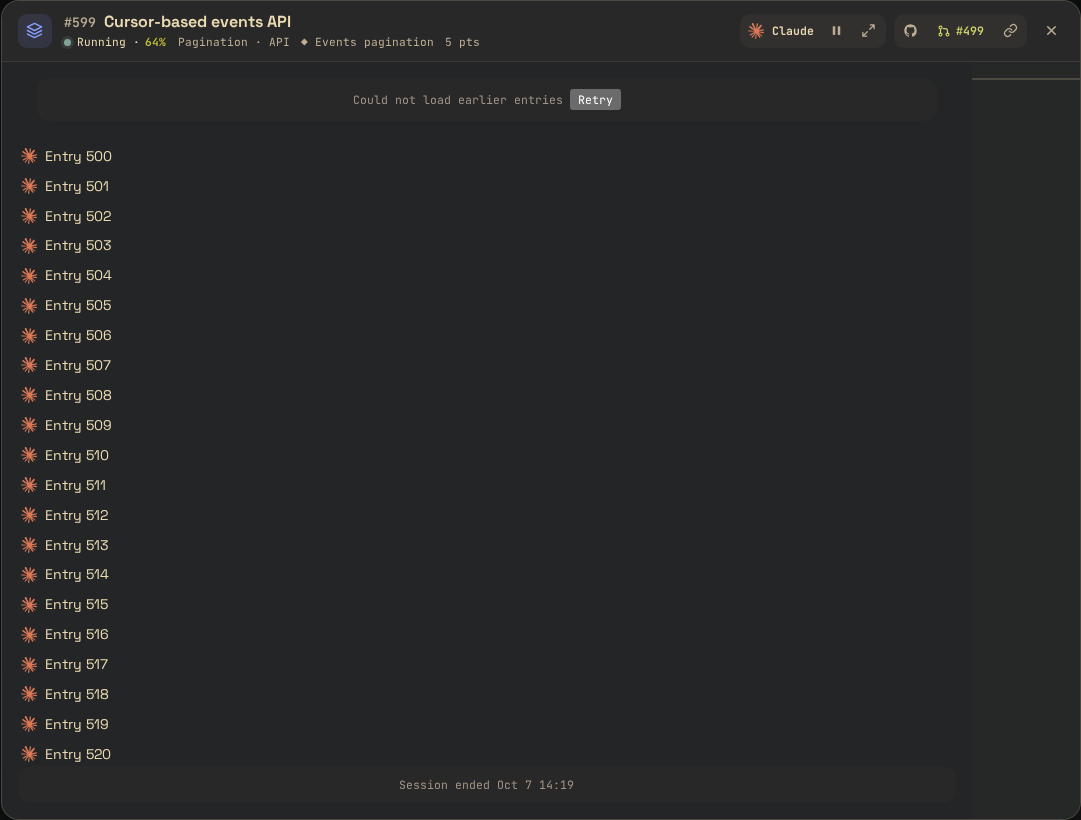
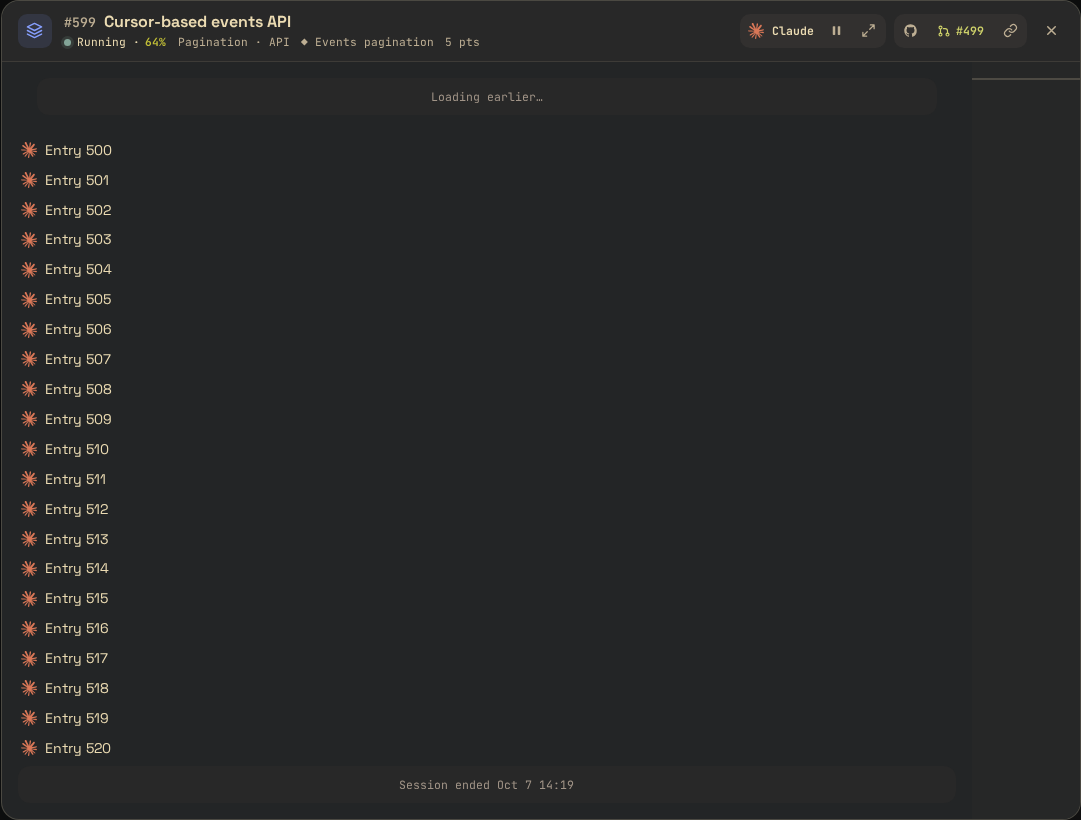
Preserve paging cursors across answer echoes

Changed region(s): [[0.0, 0.1829, 0.1221, 0.9451], [0.519, 0.0915, 0.58, 0.1524], [0.3969, 0.0915, 0.4884, 0.122]]

diff --git a/src/priv/static/build-home/modal/conversation-items.js b/src/priv/static/build-home/modal/conversation-items.js
@@ -22,7 +22,7 @@ export function itemEl(o, model) {
   else if (o.k === 'diff') h = diffHTML(o);
   else return null;
   const w = document.createElement('div'); w.innerHTML = h; const el = w.firstChild;
-  el.dataset.k = o.k; el.dataset.eid = o.id;
+  el.dataset.k = o.k; el.dataset.eid = o.id; el.dataset.cursor = o.cursor || o.id;
   if (o.at == null && ['sys', 'op'].includes(o.k)) el.title = 'Time unknown';
   if (o.k === 'ev') { el.dataset.label = o.label; el.dataset.at = o.at == null ? '—' : fmtT(o.at); el.dataset.ev = o.ev; }
   return el;

diff --git a/src/priv/static/build-home/modal/conversation.js b/src/priv/static/build-home/modal/conversation.js
@@ -20,7 +20,7 @@ function rows() { return Array.from($('#cv-log')?.children || []).filter(el => e
 function trim(from) {
   const items = rows();
   while (items.length > MAX_DOM) (from === 'top' ? items.shift() : items.pop()).remove();
-  if (from === 'top' && items.length) { open.before = items[0].dataset.eid; open.more = true; }
+  if (from === 'top' && items.length) { open.before = items[0].dataset.cursor; open.more = true; }
 }
 function find(id) { return rows().find(el => el.dataset.eid === id); }
 export function appendEntries(entries) {
